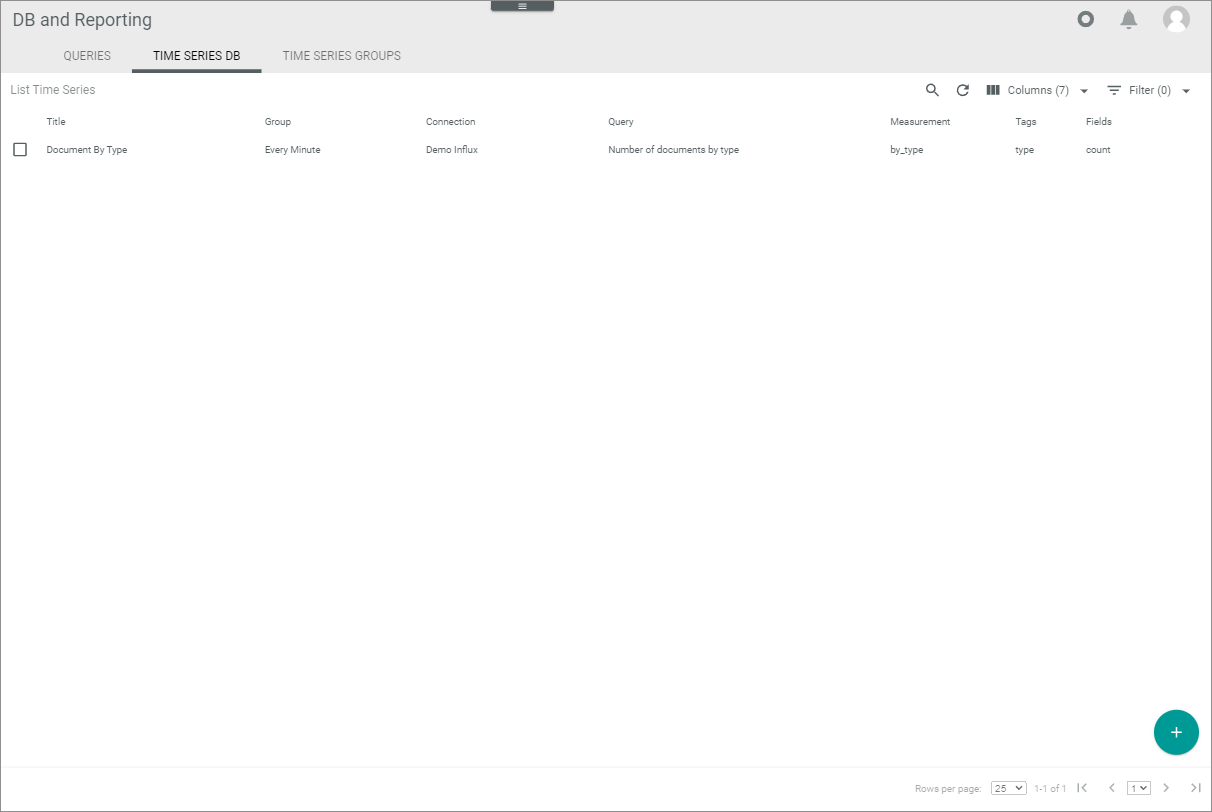
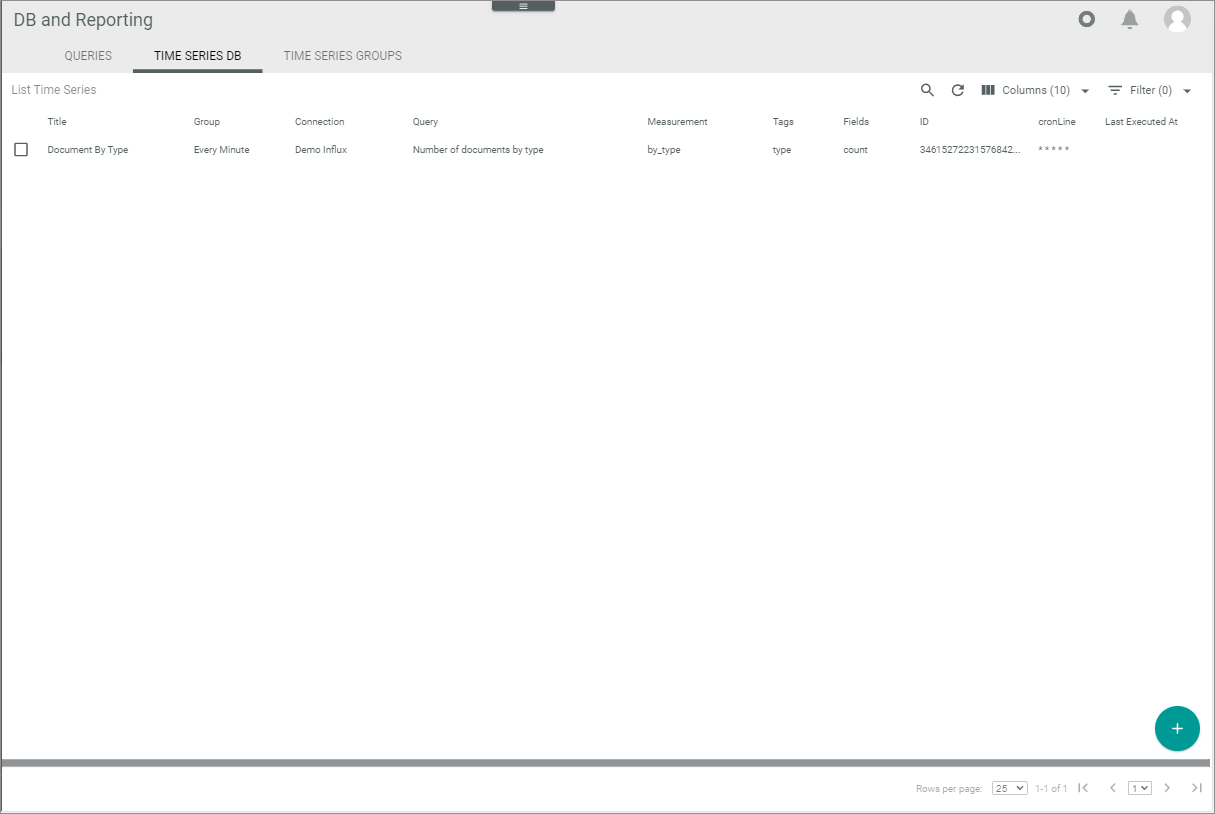
ACD-754
Time series groups UI changes

diff --git a/DatabaseAndReporting/UserInterface/01c_TimeSeriesGroups.md b/DatabaseAndReporting/UserInterface/01c_TimeSeriesGroups.md
@@ -6,22 +6,80 @@
 
 ![List of time series groups](../../Assets/Screenshots/DatabaseAndReporting/ManagedQueries/TimeSeriesGroups/ListTimeSeriesGroups.png "[List of time series groups]")
 
-**List of time series databases**
+**List of time series groups**
 
-- *CronLine*  
-    Cron expression used to specify the time interval in which the time series database must be executed.
+- ![Search](../../Assets/Icons/Search.png "[Search]") (Search)   
+    Click this button to display the search bar and search for a time series group. 
 
+- ![Refresh](../../Assets/Icons/Refresh01.png "[Refresh]") (Refresh)   
+    Click this button to update the list of time series groups. 
+
+- ![Columns](../../Assets/Icons/Columns.png "[Columns]") Columns (x)   
+    Click this button to display the columns bar and customize the displayed columns and the order of columns in the list. The *x* indicates the number of columns that are currently displayed in the list.
+
+- [x]     
+    Select the checkbox to display the editing toolbar. If you click the checkbox in the header, all time series groups in the list are selected.
 
 - [EXECUTE]  
-    Click this button to execute the time series group immediately, that is, without waiting for the next scheduled run. This button is only displayed if a single checkbox in the list of time series databases is selected.
+    Click this button to execute the selected time series group immediately, that is, without waiting for the next scheduled run. This button is only displayed if a single checkbox in the list of time series groups is selected.
 
+- [EDIT]  
+    Click this button to edit a selected time series group. This button is only displayed if a single checkbox in the list of time series groups is selected. The *Edit time series group* view is displayed, see [Edit time series group](#edit-time-series-group).
 
+- [DELETE]  
+    Click this button to delete a selected time series group. It is possible to delete several time series groups at once. This button is displayed if at least one checkbox in the list of time series groups is selected.
 
+[comment]: <> (Julian: Funktioniert es so wie bei Queries?)
 
+The list displays all time series groups. Depending on the settings, the displayed columns may vary. All fields are read-only. 
 
-Create
+- *Title*  
+    Description of the time series group.
 
 - *CronLine*  
-    Enter a valid cron expression to specify the time interval in which the time series databases must be executed.
+    Cron expression used to specify the time interval in which the time series group must be executed.
+
+- *ID*  
+    Time series database identification number. The ID number is automatically assigned by the system.
+
+- ![Add](../../Assets/Icons/Plus01.png "[Add]") (Add)   
+    Click this button to create a time series group. The *Create time series group* view is displayed, see [Create time series group](#create-time-series-group).  
 
 
+
+## Create time series group
+
+*Database and reporting > Managed queries > Tab TIME SERIES GROUPS > Button Add*
+
+![Create time series group](../../Assets/Screenshots/DatabaseAndReporting/ManagedQueries/TimeSeriesGroups/ListTimeSeriesGroups.png "[Create time series group]")
+
+**Create time series group**
+
+- *Title*  
+    Enter a description for the time series database.
+
+- *CronLine*  
+    Enter a valid cron expression to specify the time interval in which the time series group must be executed.
+
+- [SAVE]  
+    Click this button to save the time series group. The *Create time series group* view is closed. The new time series group is displayed in the list of time series groups.
+
+
+
+## Edit time series group
+
+*Database and reporting > Managed queries > Tab TIME SERIES GROUPS > Select time series group*  
+*Database and reporting > Managed queries > Tab TIME SERIES GROUPS > Select time series group checkbox > Button Edit*  
+
+![List of time series groups](../../Assets/Screenshots/DatabaseAndReporting/ManagedQueries/TimeSeriesGroups/ListTimeSeriesGroups.png "[List of time series groups]")
+
+**List of time series groups**
+
+- *Title*  
+    Click this field to edit the description of the time series group.
+
+- *CronLine*  
+    Click this field to edit the cron expression and specify the time interval in which the time series group must be executed.
+
+- [SAVE]  
+    Click this button to save any changes made. The *Edit time series group* view is closed. All changes have been applied.

diff --git a/DatabaseAndReporting/UserInterface/01b_TimeSeriesDatabases.md b/DatabaseAndReporting/UserInterface/01b_TimeSeriesDatabases.md
@@ -55,6 +55,9 @@ The list displays all time series databases. Depending on the settings, the disp
 - *Fields*  
     Values specified to be written to the time series database. Fields are mandatory. 
 
+- *ID*  
+    Time series database identification number. The ID number is automatically assigned by the system.
+
 - *CronLine*  
     CronLine defined in time series group to which the time series database has been assigned. This column is empty if the **N/A** option has been selected, that is, if the time series database has not been assigned to any group. 
 
@@ -62,9 +65,6 @@ The list displays all time series databases. Depending on the settings, the disp
     Date and time that the selected time series database has been last executed.
 
 [comment]: <> (Julian: Ich habe auf EXECUTE geklickt, die Spalte zeigt aber nichts. Ich weiß nicht, ob daran liegt, dass meine Dummy-Verbindung nicht richtig funktioniert oder ob es generell ein Bug ist)
-
-- *ID*  
-    Time series database identification number. The ID number is automatically assigned by the system.
 
 - ![Add](../../Assets/Icons/Plus01.png "[Add]") (Add)   
     Click this button to create a time series database. The *Create time series database* view is displayed, see [Create time series database](#create-time-series-database).  
@@ -81,9 +81,10 @@ The list displays all time series databases. Depending on the settings, the disp
     Enter a description for the time series database.
 
 - *Group*  
-    Time series group selected to which the time series database has been assigned. This column is empty if the **N/A** option has been selected, that is, if the time series database has not been assigned to any group. 
+    Click the drop-down list and select the desired time series group. If you do not want to assign the time series database to any group, select the **N/A** option. 
 
-
+- ![Refresh](../../Assets/Icons/Refresh01.png "[Refresh]") (Refresh)  
+    Click this button to refresh the *Group* drop-down list and display any newly created time series groups.
 
 - *Measurement*  
     Enter the name of the table where the data is to be written. 
@@ -119,6 +120,7 @@ The list displays all time series databases. Depending on the settings, the disp
 
 - ![Delete](../../Assets/Icons/Trash01.png "[Delete]") (Delete)  
     Click this button to remove a field from the *Field columns* box. This button is displayed to the right of a newly added input line.
+    
 - [SAVE]  
     Click this button to save the time series database. The *Create time series database* view is closed. The new time series database is displayed in the list of time series databases.
 
@@ -134,8 +136,11 @@ The list displays all time series databases. Depending on the settings, the disp
 - *Title*  
     Click this field to edit the description of the time series database.
 
-- *CronLine*  
-    Click this field to edit the cron expression and specify the time interval in which the time series database must be executed.
+- *Group*  
+    Click the drop-down list and select the desired time series group. If you do not want to assign the time series database to any group, select the **N/A** option. 
+
+- ![Refresh](../../Assets/Icons/Refresh01.png "[Refresh]") (Refresh)  
+    Click this button to refresh the *Group* drop-down list and display any newly created time series groups.
 
 - *Measurement*  
     Click this field to edit the name of the table where the data is to be written. 

diff --git a/DatabaseAndReporting/Integration/06_ManageTimeSeriesGroups.md b/DatabaseAndReporting/Integration/06_ManageTimeSeriesGroups.md
@@ -26,7 +26,7 @@ No prerequisites to fulfill.
 
 2. Enter a descriptive name for the time series group in the *Title* field.
 
-3. Enter a valid cron expression in the *Cronline* field to specify the time interval in which the time series databases included in the group are to be executed. If you need help creating a cron expression, you can check a cron expression editor, such as [Crontab guru](https://crontab.guru/).
+3. Enter a valid cron expression in the *CronLine* field to specify the time interval in which the time series databases included in the group are to be executed. If you need help creating a cron expression, you can check a cron expression editor, such as [Crontab guru](https://crontab.guru/).
 
 4. Click the [SAVE] button in the upper right corner.  
     The *Submitting data...* view is displayed shortly while saving. The times series group has been saved. The *Create time series group* view is closed. The new times series group is displayed in the list of time series groups.  
